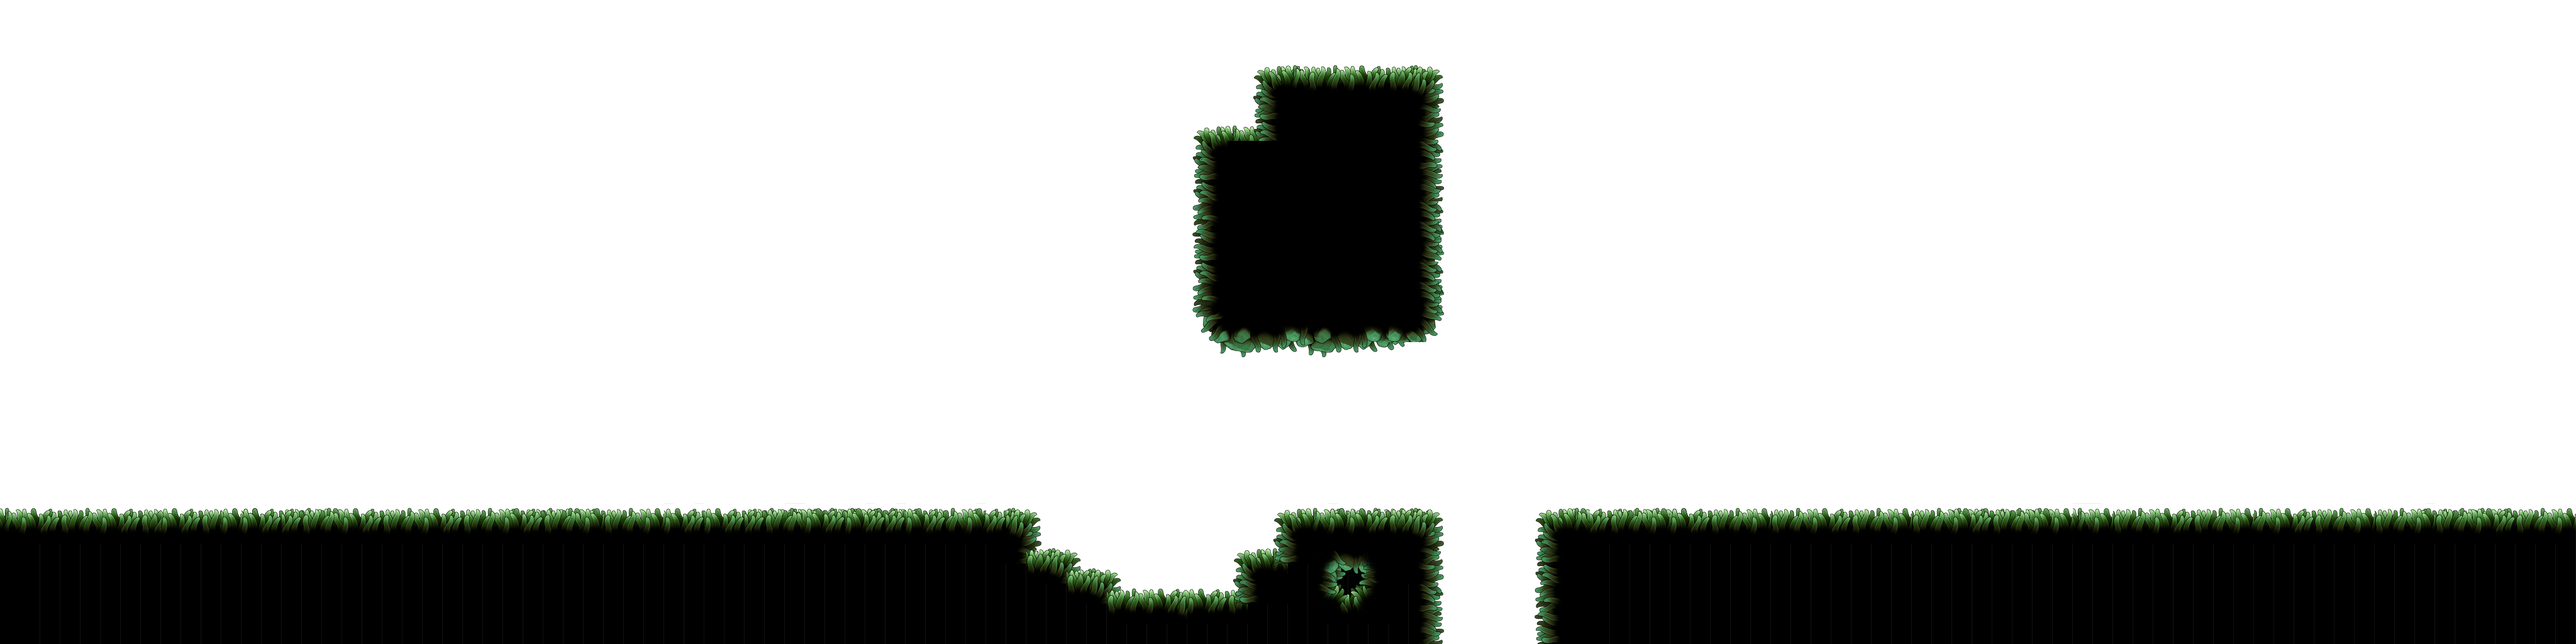
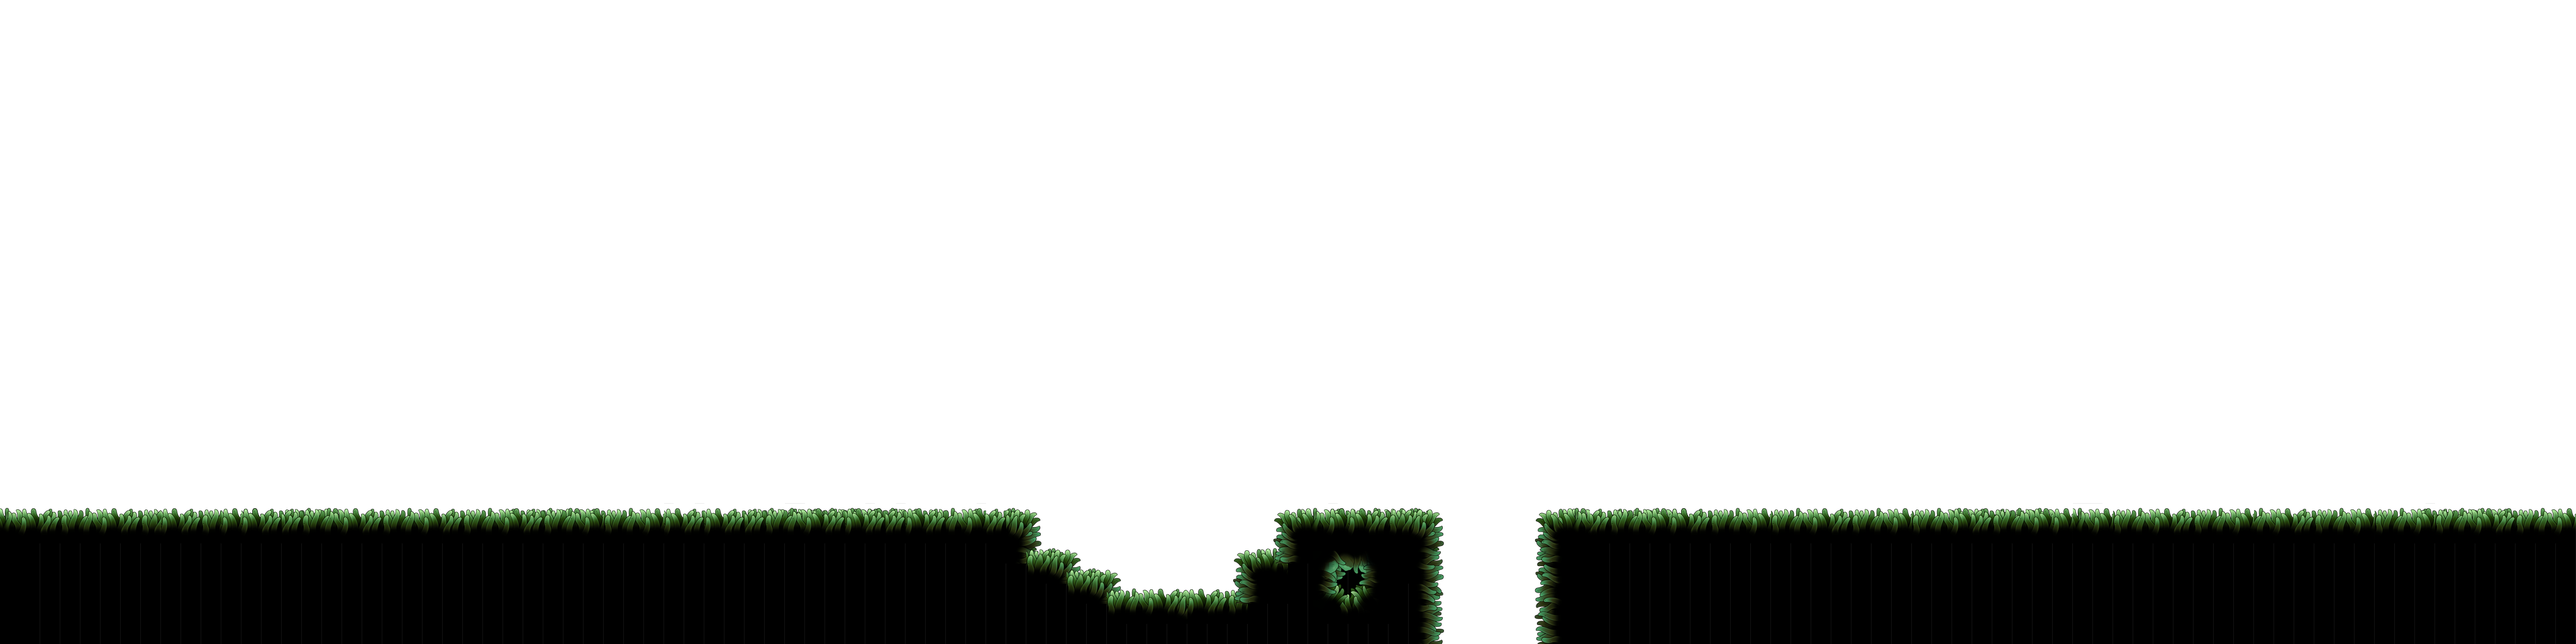
add new boss structure

Changed region(s): [[0.4375, 0.0938, 0.5625, 0.5625]]

diff --git a/assets/js/models/verdan-boss.class.js b/assets/js/models/verdan-boss.class.js
@@ -1,0 +1,90 @@
+import { gameLoop } from "./game-loop.class.js";
+import { MoveableObject } from "./movable-object.class.js";
+
+const VERDAN_PATH = "assets/images/4_final_boss/verdan/verdan_";
+const VERDAN_FRAME_WIDTH = 360;
+const VERDAN_FRAME_HEIGHT = 336;
+const MAX_SHEET_COLUMNS = 8;
+const IS_SMOOTHING_ENABLED = true;
+
+export const VERDAN_SETTINGS = {
+  idle: { file: "idle", frames: 8, frameDuration: 125 },
+  idleRage: { file: "idle_rage", frames: 8, frameDuration: 100 },
+  walk: { file: "walk", frames: 8, frameDuration: 100, speed: 1.75 },
+  walkRage: { file: "walk_rage", frames: 8, frameDuration: 83, speed: 2.4 },
+  attackBow: { file: "attack_bow", frames: 14, frameDuration: 83, warningFrames: [5, 8], actionFrame: 9, spawn: { x: 88, y: -170 } },
+  attackBowRage: { file: "attack_bow_rage", frames: 14, frameDuration: 71, warningFrames: [5, 8], actionFrame: 9, spawn: { x: 95, y: -163 } },
+  attackRoots: { file: "attack_roots", frames: 14, frameDuration: 83, warningFrames: [2, 6], actionFrame: 7, spawn: { x: 63, y: 0 } },
+  attackRootsRage: { file: "attack_roots_rage", frames: 14, frameDuration: 71, warningFrames: [2, 6], actionFrame: 7, spawn: { x: 63, y: 0 } },
+  attackPulse: { file: "attack_pulse", frames: 16, frameDuration: 83, warningFrames: [2, 8], actionFrame: 9, spawn: { x: -2, y: -165 } },
+  hurt: { file: "hurt", frames: 5, frameDuration: 83 },
+  hurtRage: { file: "hurt_rage", frames: 5, frameDuration: 83 },
+  phaseTransition: { file: "phase_transition", frames: 22, frameDuration: 100, rageFrame: 12 },
+  death: { file: "death", frames: 26, frameDuration: 100, decayFrame: 11 },
+  fxSeedArrow: { file: "fx_seed_arrow", frames: 4, frameDuration: 83, width: 126, height: 60, pivot: { x: 78, y: 30 } },
+  fxSeedArrowRage: { file: "fx_seed_arrow_rage", frames: 4, frameDuration: 83, width: 126, height: 60, pivot: { x: 78, y: 30 } },
+  fxSeedImpact: { file: "fx_seed_impact", frames: 12, frameDuration: 83, width: 108, height: 96, pivot: { x: 54, y: 87 }, damageFrames: [3, 8], hitbox: { width: 39, height: 45 } },
+  fxSeedImpactRage: { file: "fx_seed_impact_rage", frames: 12, frameDuration: 83, width: 108, height: 96, pivot: { x: 54, y: 87 }, damageFrames: [3, 8], hitbox: { width: 39, height: 45 } },
+  fxRootSpike: { file: "fx_root_spike", frames: 14, frameDuration: 71, width: 84, height: 180, pivot: { x: 42, y: 171 }, warningFrames: [0, 3], damageFrames: [4, 10], hitbox: { width: 24, height: 135 } },
+  fxRootSpikeRage: { file: "fx_root_spike_rage", frames: 14, frameDuration: 71, width: 84, height: 180, pivot: { x: 42, y: 171 }, warningFrames: [0, 3], damageFrames: [4, 10], hitbox: { width: 24, height: 135 } },
+  fxPulseBurst: { file: "fx_pulse_burst", frames: 12, frameDuration: 71, width: 384, height: 384, pivot: { x: 192, y: 192 }, maxRadius: 159 },
+  fxPulseWave: { file: "fx_pulse_wave", frames: 6, frameDuration: 83, width: 108, height: 96, pivot: { x: 54, y: 90 }, hitbox: { width: 30, height: 45 } },
+};
+
+export class VerdanBoss extends MoveableObject {
+  IMAGES_IDLE = [];
+  width = VERDAN_FRAME_WIDTH;
+  height = VERDAN_FRAME_HEIGHT;
+  hp = 8;
+  maxHp = 8;
+  offset = { top: 98, right: 146, bottom: 18, left: 146 };
+  isOppositeDirection = true;
+  isFinalBoss = true;
+  isDeathAnimationFinished = false;
+  target = null;
+  arena = null;
+  animationStartedAt = 0;
+  drawHitbox = true;
+
+  constructor() {
+    super();
+    this.IMAGES_IDLE = this.loadSheet(VERDAN_SETTINGS.idle);
+    this.img = this.imageCache[this.IMAGES_IDLE[0]];
+    this.animationStartedAt = gameLoop.now();
+    gameLoop.runEvery(1000 / 60, () => this.updateBoss());
+  }
+
+  loadSheet({ file, frames }) {
+    const columns = Math.min(frames, MAX_SHEET_COLUMNS);
+    return this.loadSpriteSheet(`${VERDAN_PATH}${file}.webp`, frames, VERDAN_FRAME_WIDTH, VERDAN_FRAME_HEIGHT, null, columns);
+  }
+
+  setArena(range) {
+    this.arena = { minX: this.x - range / 2, maxX: this.x + range / 2 };
+  }
+
+  updateBoss() {
+    this.playLoop(this.IMAGES_IDLE, VERDAN_SETTINGS.idle.frameDuration);
+  }
+
+  playLoop(images, frameDuration) {
+    const frame = Math.floor((gameLoop.now() - this.animationStartedAt) / frameDuration) % images.length;
+    this.currentImage = frame;
+    this.img = this.imageCache[images[frame]];
+  }
+
+  faceDirection(isLeft) {
+    this.isOppositeDirection = isLeft;
+  }
+
+  isAttackFrameActive() {
+    return false;
+  }
+
+  draw(ctx) {
+    ctx.save();
+    ctx.imageSmoothingEnabled = IS_SMOOTHING_ENABLED;
+    super.draw(ctx);
+    ctx.restore();
+  }
+}

diff --git a/assets/js/models/world-logic.class.js b/assets/js/models/world-logic.class.js
@@ -1,7 +1,6 @@
 import { gameLoop } from "./game-loop.class.js";
 import { StatusBar } from "./status-bar.class.js";
 import { Enemy } from "./enemies.class.js";
-import { FinalBoss } from "./final-boss.class.js";
 import { playSfx } from "../sfx.js";
 import { isTouchingTile, TILE_HAZARD } from "./tile-collision.js";
 import { getEntityBox, getPlacementOnEntity } from "./level.class.js";
@@ -130,7 +129,7 @@ export class WorldLogic {
   }
 
   checkVictory() {
-    this.dyingBoss ??= this.level.enemies.find((enemy) => enemy instanceof FinalBoss && enemy.isDead());
+    this.dyingBoss ??= this.level.enemies.find((enemy) => enemy.isFinalBoss && enemy.isDead());
     if (this.isVictory || !this.dyingBoss?.isDeathAnimationFinished) return;
     this.triggerVictory();
   }
@@ -148,7 +147,7 @@ export class WorldLogic {
   }
 
   checkTimerStop() {
-    const boss = this.level.enemies.find((enemy) => enemy instanceof FinalBoss);
+    const boss = this.level.enemies.find((enemy) => enemy.isFinalBoss);
     if (!boss || !boss.isDead()) return;
     this.stopGameplayMusic();
     if (this.timerStartMs !== null && this.timerStopMs === null) this.timerStopMs = gameLoop.now();
@@ -186,6 +185,6 @@ export class WorldLogic {
 
   removeDeadEnemies() {
     this.trackDefeatedEnemies();
-    this.level.enemies = this.level.enemies.filter((enemy) => !(enemy instanceof Enemy || enemy instanceof FinalBoss ? enemy.isDeathAnimationFinished : enemy.isDead()));
+    this.level.enemies = this.level.enemies.filter((enemy) => !(enemy instanceof Enemy || enemy.isFinalBoss ? enemy.isDeathAnimationFinished : enemy.isDead()));
   }
 }

diff --git a/assets/js/level/level-loader.js b/assets/js/level/level-loader.js
@@ -3,6 +3,7 @@ import { DarkElf, Boar, Skeleton } from "../models/enemies.class.js";
 import { ExitPortal } from "../models/exit-portal.class.js";
 import { KeyItem } from "../models/key-item.class.js";
 import { Level, COLLISION_TILE_SIZE, TILE_SIZE, getEntityBox, placeOnEntity } from "../models/level.class.js";
+import { VerdanBoss } from "../models/verdan-boss.class.js";
 import { LEVEL_COUNT } from "../data.js";
 
 const ENEMY_CLASSES = { Boar, DarkElf, Skeleton };
@@ -116,6 +117,13 @@ function createEnemy(entity, index) {
   return enemy;
 }
 
+function createBoss(entity) {
+  const boss = new VerdanBoss();
+  placeOnEntity(boss, entity);
+  boss.setArena((entity.customFields?.range ?? 0) * TILE_SIZE);
+  return boss;
+}
+
 function createChargeItem(entity) {
   const box = getEntityBox(entity);
   return new ChargeItem(box.x + box.width / 2, box.y + box.height / 2);
@@ -131,7 +139,7 @@ function createExit(entity) {
 
 export function createLevel(levelAssets) {
   const entities = levelAssets.data.entities;
-  const enemies = (entities.Enemy_Patrol ?? []).map(createEnemy);
+  const enemies = [...(entities.Enemy_Patrol ?? []).map(createEnemy), ...(entities.Boss ?? []).map(createBoss)];
   const items = (entities.Coin ?? []).map(createChargeItem);
   const keys = (entities.Key ?? []).map(createKey);
   const exits = (entities.Exit ?? []).map(createExit);

diff --git a/assets/js/models/world.class.js b/assets/js/models/world.class.js
@@ -1,6 +1,5 @@
 import { gameLoop } from "./game-loop.class.js";
 import { Enemy } from "./enemies.class.js";
-import { FinalBoss } from "./final-boss.class.js";
 import { createLevel, loadLevelAssets } from "../level/level-loader.js";
 import { LEVEL_COUNT } from "../data.js";
 import { placeOnEntity } from "./level.class.js";
@@ -72,7 +71,7 @@ export class World extends WorldRendering {
 
   setEnemyTargets() {
     this.level.enemies.forEach((enemy) => {
-      if (enemy instanceof Enemy || enemy instanceof FinalBoss) enemy.target = this.character;
+      if (enemy instanceof Enemy || enemy.isFinalBoss) enemy.target = this.character;
     });
   }
 
@@ -94,7 +93,7 @@ export class World extends WorldRendering {
   }
 
   resumeGameplayMusic() {
-    const boss = this.level.enemies.find((enemy) => enemy instanceof FinalBoss);
+    const boss = this.level.enemies.find((enemy) => enemy.isFinalBoss);
     if (this.character.isDead() || boss?.isDead()) return;
     this.startGameplayMusic();
   }

diff --git a/assets/js/models/character-combat.class.js b/assets/js/models/character-combat.class.js
@@ -1,6 +1,5 @@
 import { ENTITY_SCALE, EXTRA_ATTACK_COIN_THRESHOLD } from "../data.js";
 import { gameLoop } from "./game-loop.class.js";
-import { FinalBoss } from "./final-boss.class.js";
 import { CharacterMovement } from "./character-movement.class.js";
 
 const HAZARD_BOUNCE_SPEED = 8 * ENTITY_SCALE;
@@ -105,7 +104,7 @@ export class CharacterCombat extends CharacterMovement {
     const box = this.getHitbox();
     this.world.level.enemies.forEach((enemy) => {
       if (enemy.isDead()) return;
-      const reach = enemy instanceof FinalBoss ? this.getBossReach(box) : this.getReach(box);
+      const reach = enemy.isFinalBoss ? this.getBossReach(box) : this.getReach(box);
       if (!this.world.hitboxesOverlap(reach, enemy.getHitbox())) return;
       if (enemy.hit({ character: this.characterType, attackType: this.activeAttackType })) this.world.triggerHitFeedback();
     });

diff --git a/assets/js/models/final-boss.class.js b/assets/js/models/final-boss.class.js
@@ -17,6 +17,7 @@ export class FinalBoss extends MoveableObject {
   maxHp = 8;
   offset = { top: 95, right: 105, bottom: 65, left: 95 };
   target = null;
+  isFinalBoss = true;
   attackHitStartFrame = 6;
   attackHitEndFrame = 10;
   phase = "normal";
